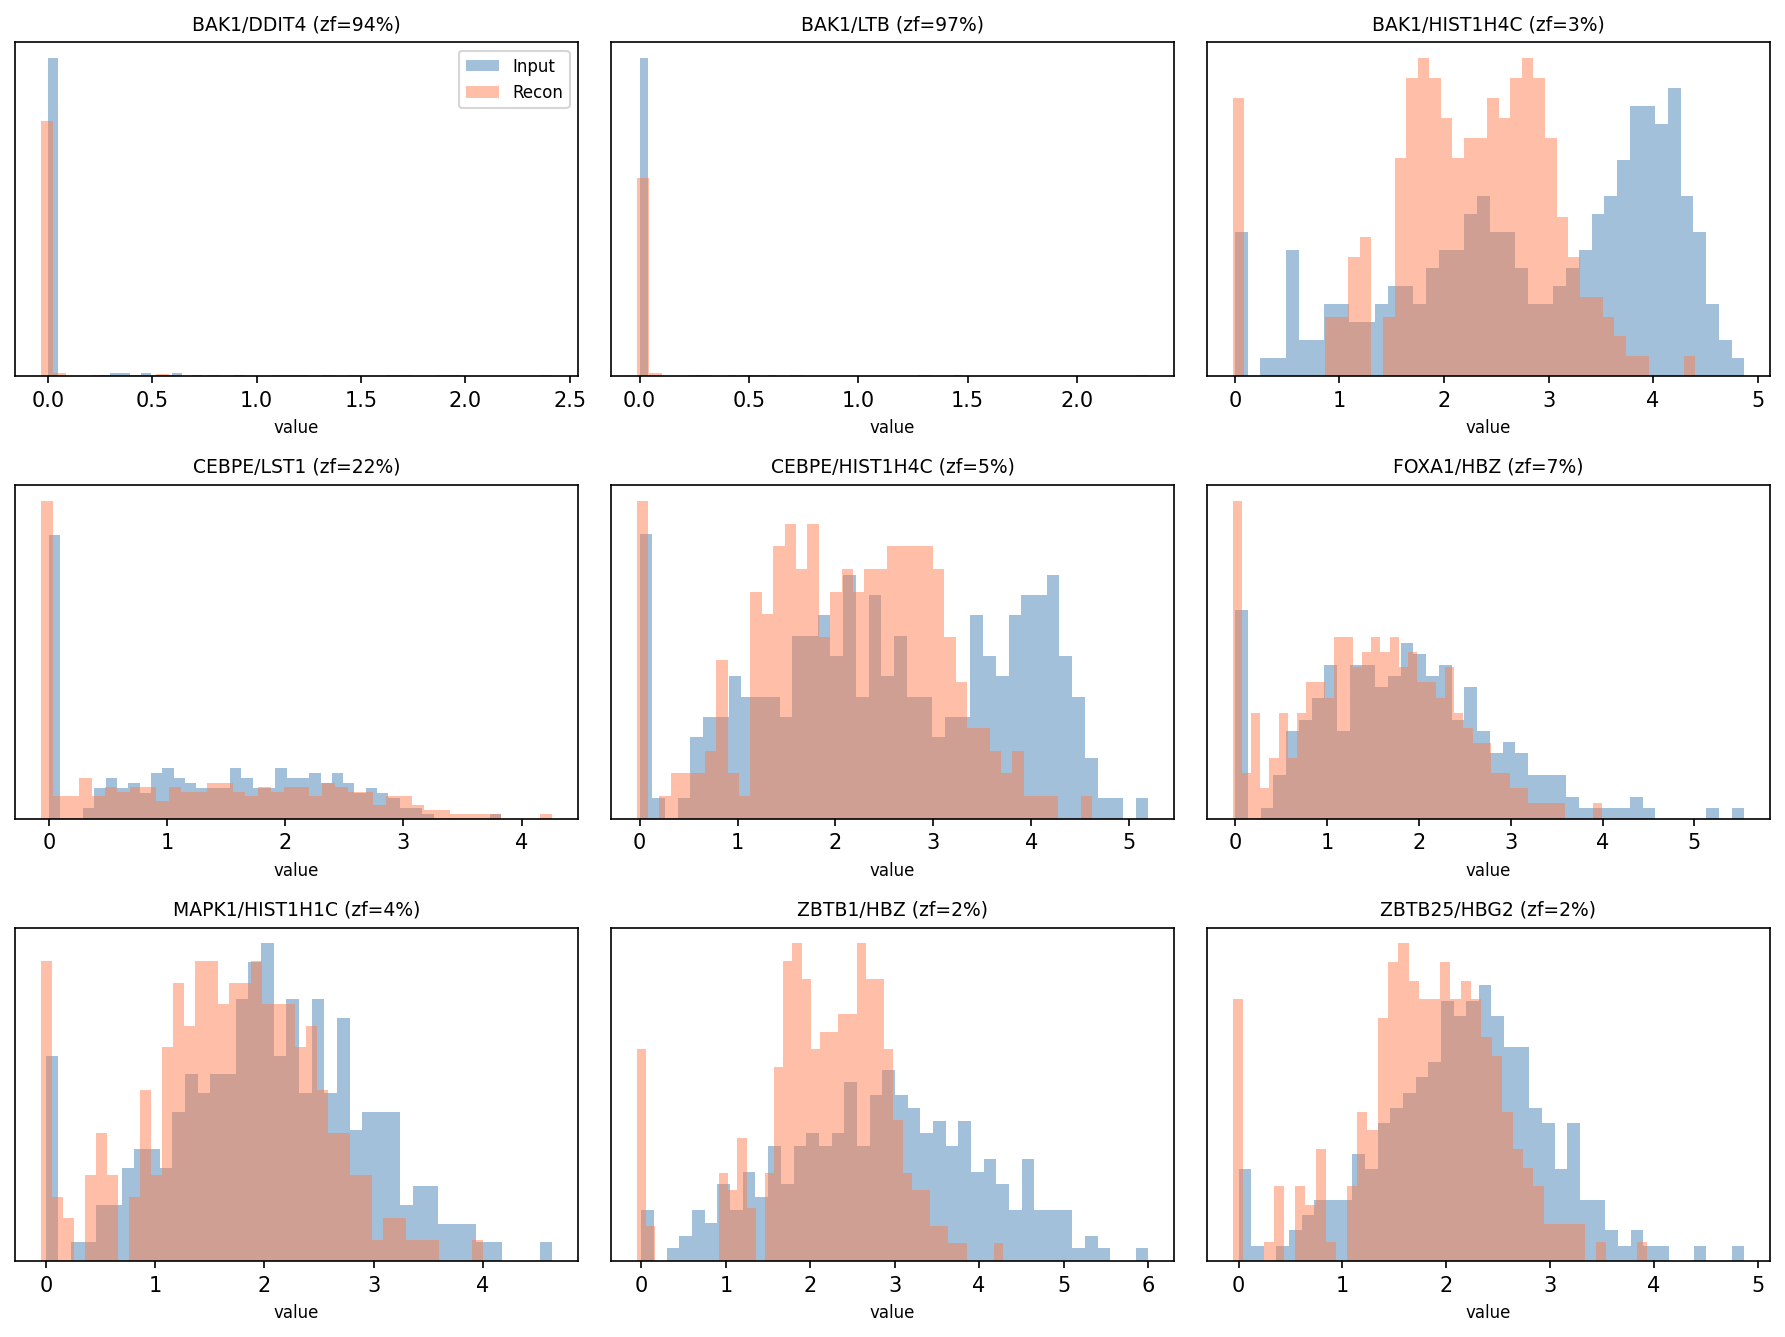
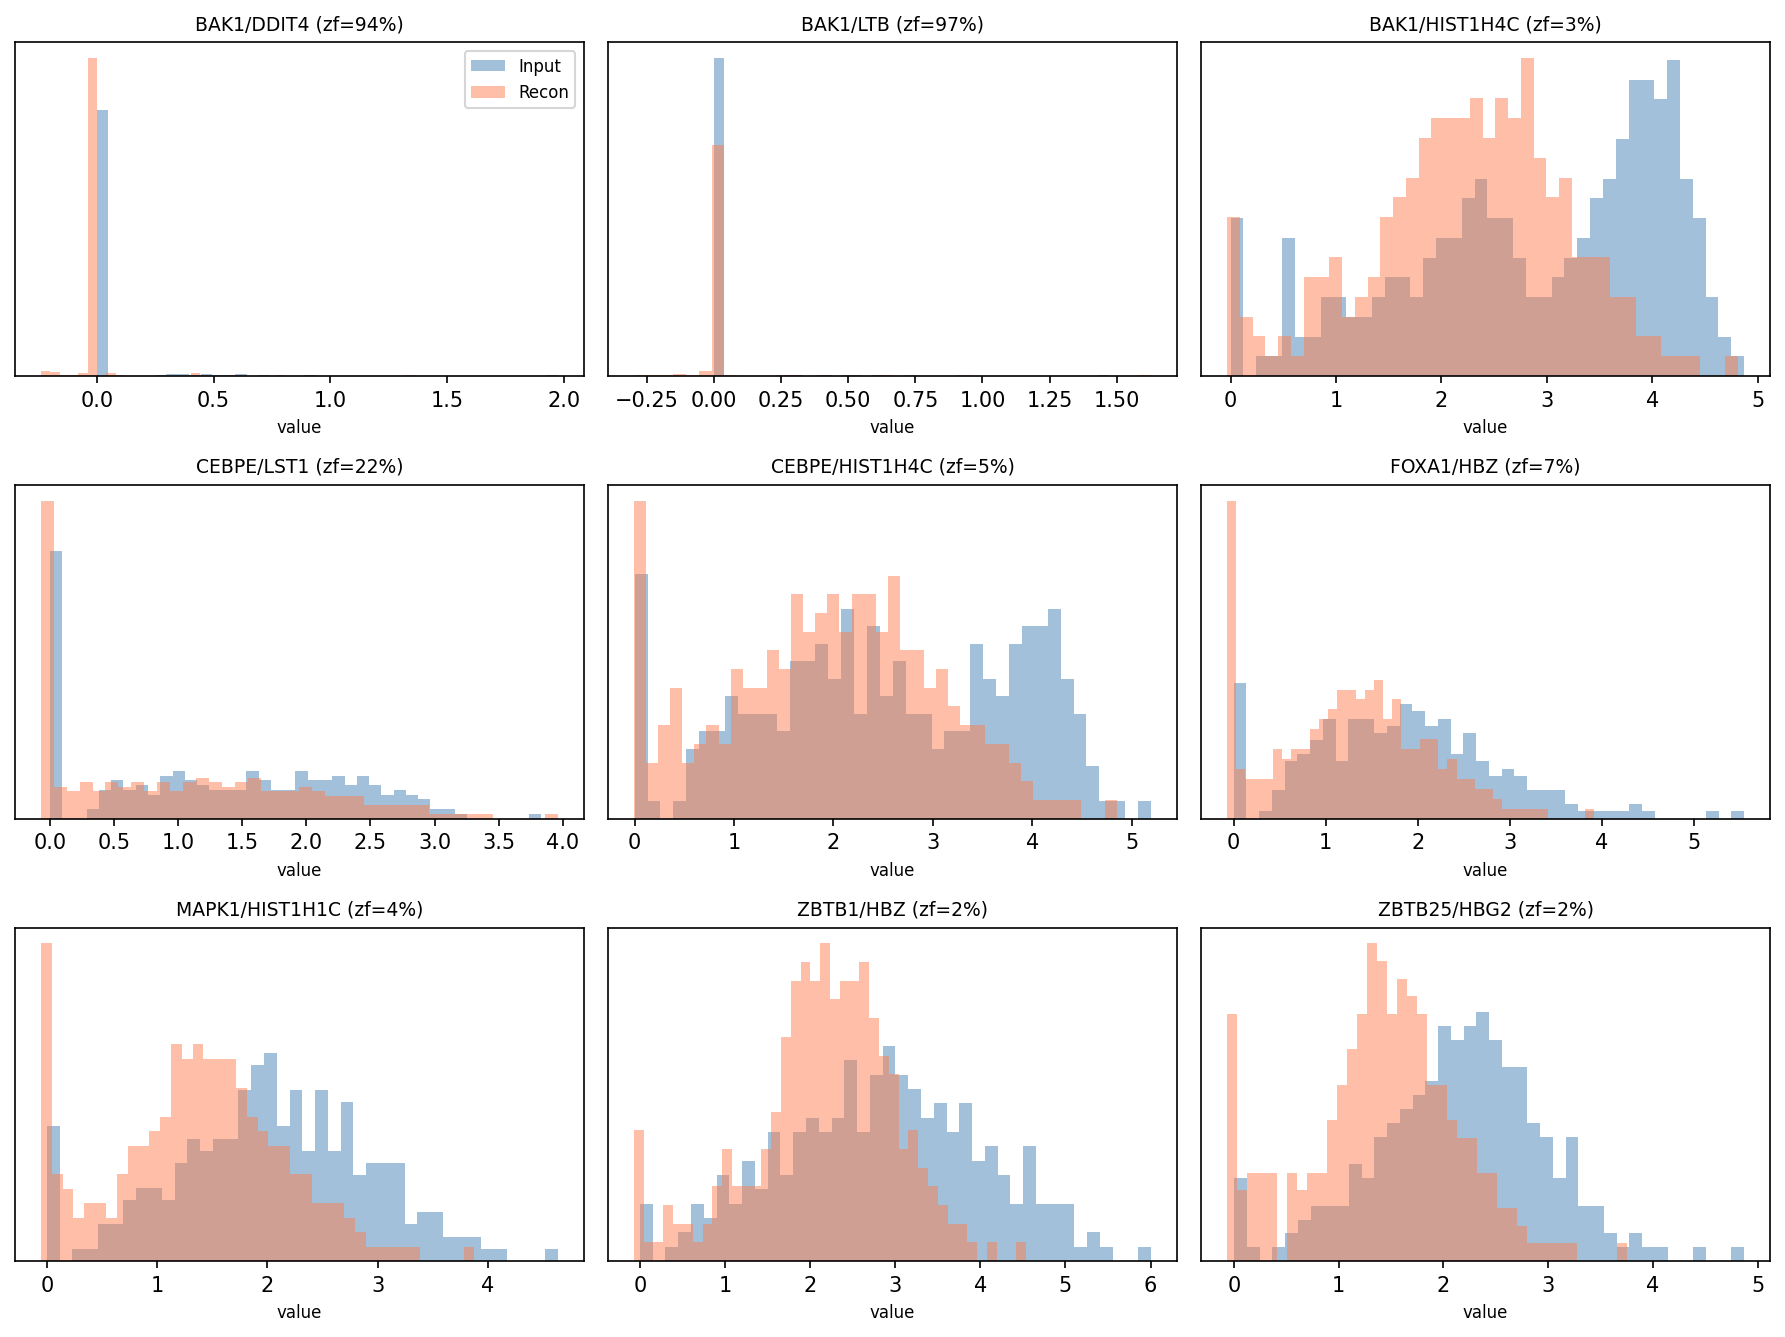
[autoresearch] ZF-R10 KEEP: softplus beta=15, val_kl=0.000007 — best so far
10 rounds completed. Current best config:
- MASK_STEEPNESS=100, DENSITY_WEIGHT=0.15, softplus beta=15
- val_kl_divergence=0.000007, active_dims=24/24

diff --git a/autoresearch/run_and_plot.py b/autoresearch/run_and_plot.py
@@ -1,0 +1,69 @@
+"""Train the model and generate histogram plots on validation data."""
+import sys, copy, time, torch
+import matplotlib; matplotlib.use('Agg')
+import matplotlib.pyplot as plt
+import numpy as np
+
+sys.path.insert(0, str(__import__('pathlib').Path(__file__).parent))
+sys.path.insert(0, str(__import__('pathlib').Path(__file__).parent.parent))
+from prepare import GRID_SIZE, TIME_BUDGET, load_dataset, get_splits, get_dataloaders, evaluate, print_metrics, get_device
+from train import (DistributionVAE, LATENT_DIM, HIDDEN_DIM, BETA, FREE_BITS, BATCH_SIZE,
+                    SEED, LR, WEIGHT_DECAY, GRAD_CLIP, BETA_WARMUP_EPOCHS)
+
+torch.manual_seed(SEED); device = get_device()
+dataset = load_dataset()
+train_ds, val_ds = get_splits(dataset)
+train_loader, val_loader = get_dataloaders(train_ds, val_ds, batch_size=BATCH_SIZE)
+model = DistributionVAE(grid_size=GRID_SIZE, latent_dim=LATENT_DIM, hidden_dim=HIDDEN_DIM,
+                         beta=BETA, free_bits=FREE_BITS).to(device)
+n_params = sum(p.numel() for p in model.parameters())
+optimizer = torch.optim.AdamW(model.parameters(), lr=LR, weight_decay=WEIGHT_DECAY)
+scheduler = torch.optim.lr_scheduler.CosineAnnealingLR(optimizer, T_max=2500, eta_min=1e-5)
+
+start_time = time.time(); epoch = 0; best_val_metric = float('inf'); best_state = None
+while True:
+    elapsed = time.time() - start_time
+    if elapsed > TIME_BUDGET: break
+    if BETA_WARMUP_EPOCHS > 0 and epoch < BETA_WARMUP_EPOCHS:
+        model.current_beta = BETA * (epoch / BETA_WARMUP_EPOCHS)
+    else: model.current_beta = BETA
+    model.train()
+    for batch in train_loader:
+        grids = batch[0].to(device); optimizer.zero_grad()
+        recon, mu, logvar, z = model(grids)
+        losses = model.compute_loss(grids, recon, mu, logvar)
+        losses['total'].backward()
+        if GRAD_CLIP > 0: torch.nn.utils.clip_grad_norm_(model.parameters(), GRAD_CLIP)
+        optimizer.step()
+    scheduler.step(); epoch += 1
+    if (epoch - 1) % 5 == 0:
+        model.eval()
+        with torch.no_grad():
+            metrics = evaluate(model, val_loader, device)
+            vkl = metrics['val_kl_divergence']
+            if abs(vkl) < best_val_metric:
+                best_val_metric = abs(vkl); best_state = copy.deepcopy(model.state_dict())
+
+if best_state: model.load_state_dict(best_state)
+metrics = evaluate(model, val_loader, device)
+print_metrics(metrics)
+print(f"epochs={epoch}"); print(f"n_params={n_params}")
+
+# Plot histograms on a mix of zero-inflated and high-variance val samples
+indices = [0, 5, 99, 187, 199, 498, 596, 898, 997]
+model.eval(); fig, axes = plt.subplots(3, 3, figsize=(12, 9)); axes = axes.flatten()
+with torch.no_grad():
+    for i, idx in enumerate(indices):
+        grid, _, _ = dataset[idx]
+        recon, _, _, _ = model(grid.unsqueeze(0).to(device))
+        ax = axes[i]
+        ax.hist(grid.cpu().numpy(), bins=40, density=True, alpha=0.5, color='steelblue', label='Input', edgecolor='none')
+        ax.hist(recon[0].cpu().numpy(), bins=40, density=True, alpha=0.5, color='coral', label='Recon', edgecolor='none')
+        meta = dataset.get_metadata(idx)
+        zf = (grid < 0.01).float().mean().item()
+        ax.set_title(f"{meta['perturbation_name']}/{meta['gene_name']} (zf={zf:.0%})", fontsize=9)
+        ax.set_xlabel('value', fontsize=8); ax.set_yticks([])
+        if i == 0: ax.legend(fontsize=8)
+plt.tight_layout()
+fig.savefig('autoresearch/reconstruction_hist.png', dpi=150, bbox_inches='tight')
+print(f"\nPlot saved to autoresearch/reconstruction_hist.png"); plt.close()
